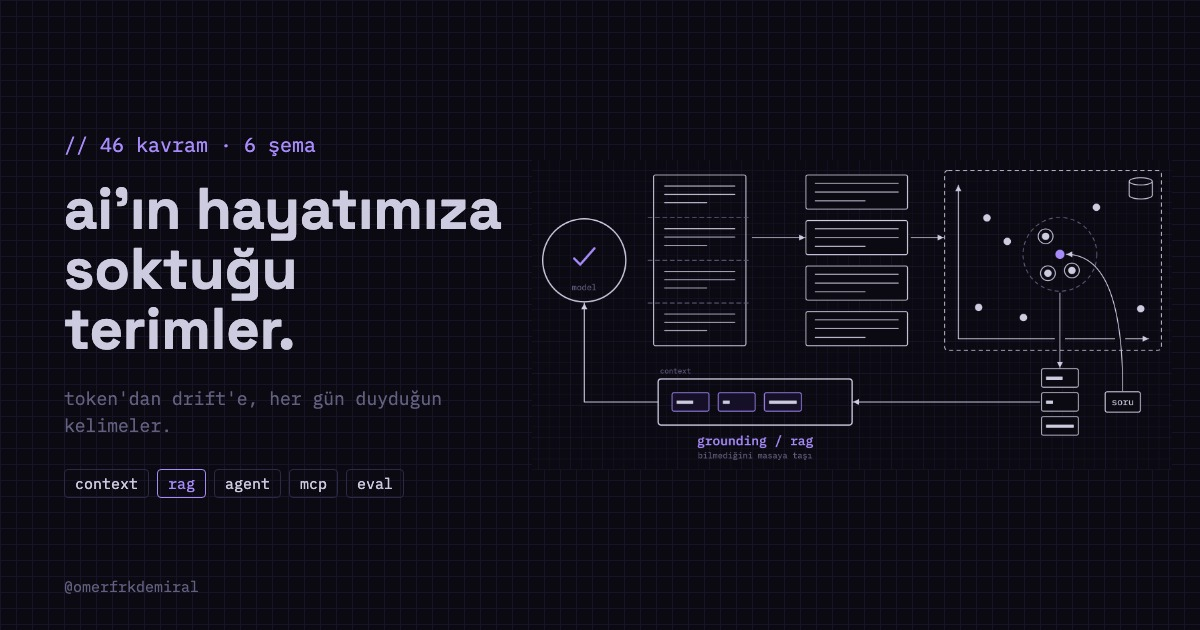
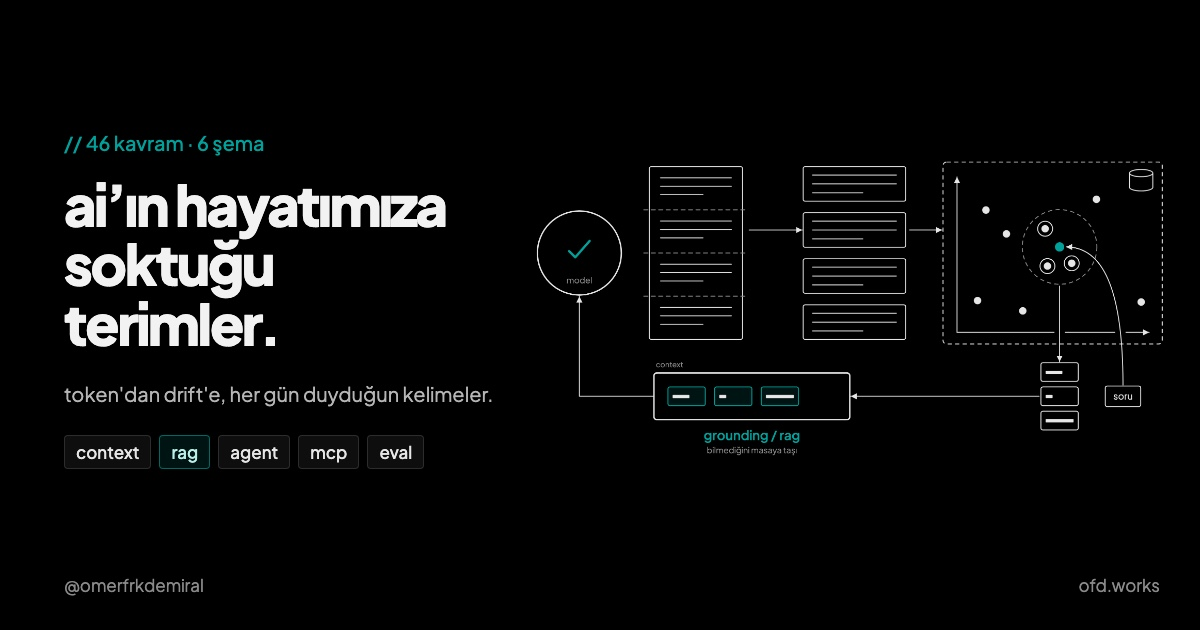
ai-kavramlar: kapak görseli yeşil palete geçti
Önizleme önbelleği yenilensin diye görsel adresine ?v=2 eklendi.

Changed region(s): [[0.0, 0.0, 1.0, 0.9952]]

diff --git a/resources/ai-kavramlar/index.html b/resources/ai-kavramlar/index.html
@@ -9,7 +9,7 @@
 <meta property="og:description" content="token'dan drift'e 46 kavram, 6 animasyonlu şema.">
 <meta property="og:type" content="article">
 <meta property="og:url" content="https://omerfarukdemiral.github.io/ofd-notes/resources/ai-kavramlar/">
-<meta property="og:image" content="https://omerfarukdemiral.github.io/ofd-notes/resources/ai-kavramlar/kapak.jpg">
+<meta property="og:image" content="https://omerfarukdemiral.github.io/ofd-notes/resources/ai-kavramlar/kapak.jpg?v=2">
 <meta property="og:image:type" content="image/jpeg">
 <meta property="og:image:width" content="1200">
 <meta property="og:image:height" content="630">
@@ -21,7 +21,7 @@
 <meta name="twitter:creator" content="@omerfrkdemiral">
 <meta name="twitter:title" content="ai'ın hayatımıza soktuğu terimler">
 <meta name="twitter:description" content="token'dan drift'e 46 kavram, 6 animasyonlu şema.">
-<meta name="twitter:image" content="https://omerfarukdemiral.github.io/ofd-notes/resources/ai-kavramlar/kapak.jpg">
+<meta name="twitter:image" content="https://omerfarukdemiral.github.io/ofd-notes/resources/ai-kavramlar/kapak.jpg?v=2">
 <meta name="twitter:image:alt" content="ai'ın hayatımıza soktuğu terimler — 46 kavram, 6 şema">
 <link rel="stylesheet" href="https://fonts.googleapis.com/css2?family=Plus+Jakarta+Sans:wght@400;500;600;700;800&display=swap">
 <style>
